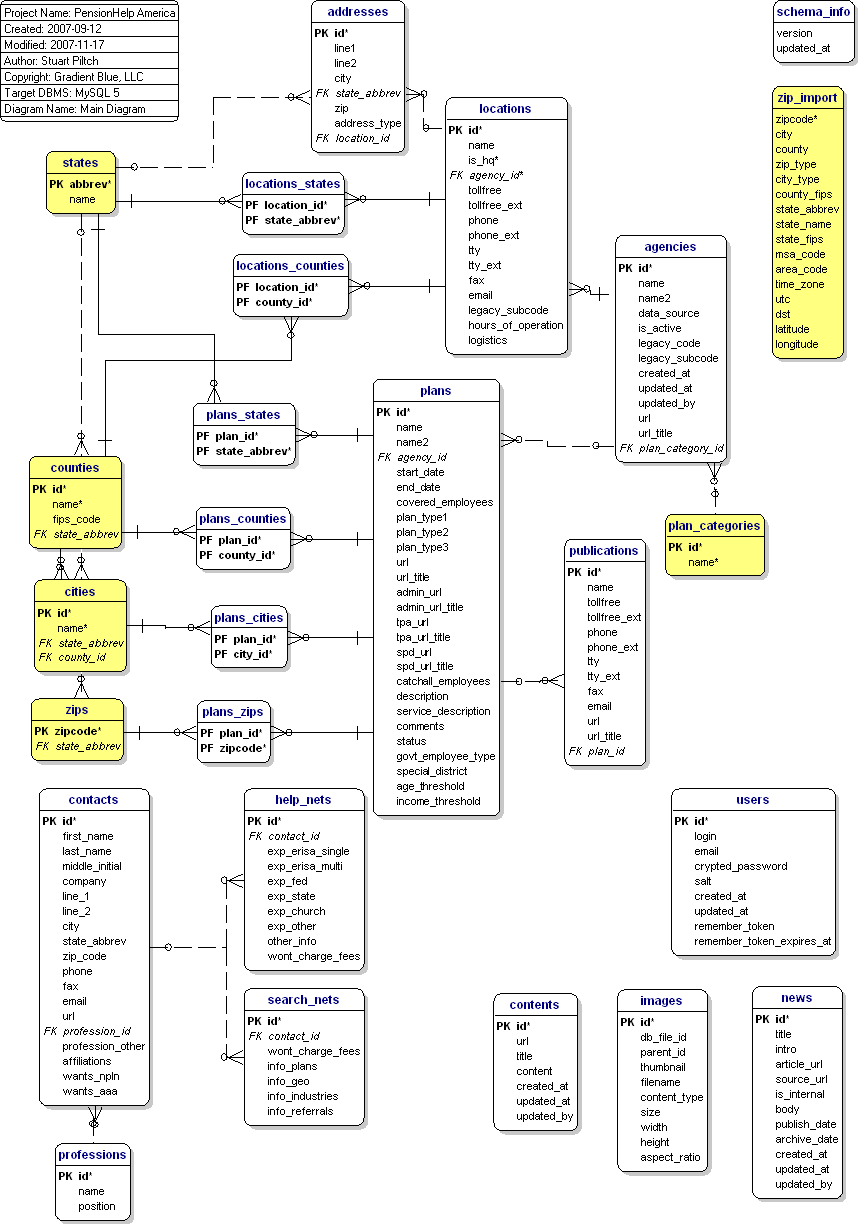
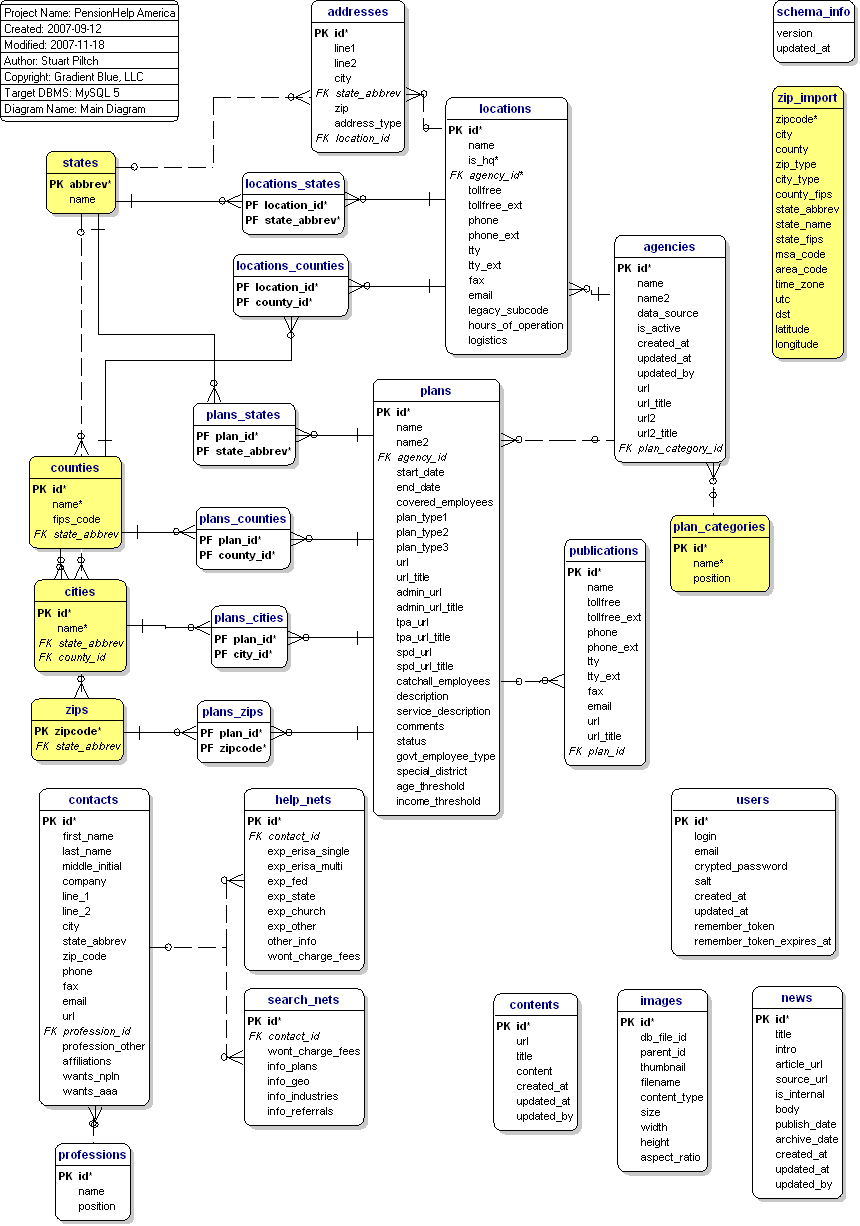
added some legacy fields to support FMPro data import

Changed region(s): [[0.6953, 0.186, 0.907, 0.4959]]

diff --git a/db/schema.rb b/db/schema.rb
@@ -2,16 +2,18 @@
 # migrations feature of ActiveRecord to incrementally modify your database, and
 # then regenerate this schema definition.
 
-ActiveRecord::Schema.define(:version => 19) do
+ActiveRecord::Schema.define(:version => 20) do
 
   create_table "addresses", :force => true do |t|
-    t.column "line1",        :string
-    t.column "line2",        :string
-    t.column "city",         :string,  :limit => 64
-    t.column "state_abbrev", :string
-    t.column "zip",          :string
-    t.column "address_type", :string
-    t.column "location_id",  :integer
+    t.column "line1",          :string
+    t.column "line2",          :string
+    t.column "city",           :string,  :limit => 64
+    t.column "state_abbrev",   :string
+    t.column "zip",            :string
+    t.column "address_type",   :string
+    t.column "location_id",    :integer
+    t.column "legacy_code",    :string
+    t.column "legacy_subcode", :string
   end
 
   add_index "addresses", ["location_id"], :name => "location_id"
@@ -32,16 +34,6 @@ ActiveRecord::Schema.define(:version => 19) do
   end
 
   add_index "agencies", ["plan_category_id"], :name => "plan_category_id"
-
-  create_table "agency_categories", :force => true do |t|
-    t.column "name",     :string
-    t.column "position", :integer
-  end
-
-  create_table "agency_types", :force => true do |t|
-    t.column "name",     :string
-    t.column "position", :integer
-  end
 
   create_table "cities", :force => true do |t|
     t.column "name",         :string
@@ -87,6 +79,66 @@ ActiveRecord::Schema.define(:version => 19) do
     t.column "state_abbrev", :string
   end
 
+  create_table "fmp2", :force => true do |t|
+    t.column "ResultType",                   :string
+    t.column "OldPHA_AgencySerialNumber",    :string
+    t.column "OldPHA_BabiesSerialNumber",    :string
+    t.column "AgencyName1",                  :string
+    t.column "AgencyName2",                  :string
+    t.column "PlanDescription",              :text
+    t.column "Comments",                     :text
+    t.column "AgencyMailStreet1",            :string
+    t.column "AgencyMailStreet2",            :string
+    t.column "AgencyMailCity",               :string
+    t.column "AgencyMailState",              :string
+    t.column "AgencyMailZip",                :string
+    t.column "AgencyDropInStreet1",          :string
+    t.column "AgencyDropInStreet2",          :string
+    t.column "AgencyDropInCity",             :string
+    t.column "AgencyDropInState",            :string
+    t.column "AgencyDropInZip",              :string
+    t.column "AgencyTollFreePhone",          :string
+    t.column "AgencyLocalPhone",             :string
+    t.column "AgencyFax",                    :string
+    t.column "AgencyTTYPhone",               :string
+    t.column "AgencyTollFreePhoneExt",       :string
+    t.column "AgencyLocalPhoneExt",          :string
+    t.column "AgencyTTYPhoneExt",            :string
+    t.column "AgencyEmail",                  :string
+    t.column "AgencyURL",                    :string
+    t.column "PlanURL",                      :string
+    t.column "AgencyURLTitle",               :string
+    t.column "PlanURLTitle",                 :string
+    t.column "AgencyPubsTollFreePhone",      :string
+    t.column "AgencyPubsLocalPhone",         :string
+    t.column "AgencyPubsTTYPhone",           :string
+    t.column "AgencyPubsTollFreePhoneExt",   :string
+    t.column "AgencyPubsLocalPhoneExt",      :string
+    t.column "AgencyPubsTTYPhoneExt",        :string
+    t.column "AgencyPubsURL",                :string
+    t.column "RecordStatus",                 :string
+    t.column "AgencyPubsURLTitle",           :string
+    t.column "SPDURL",                       :string
+    t.column "SPDURLTitle",                  :string
+    t.column "PlanStartDate",                :date
+    t.column "PlanEndDate",                  :date
+    t.column "CoveredEmployee",              :text
+    t.column "PlanType1",                    :string
+    t.column "PlanType2",                    :string
+    t.column "PlanType3",                    :string
+    t.column "PlanName1",                    :string
+    t.column "PlanName2",                    :string
+    t.column "TPAURL",                       :string
+    t.column "TPAURL_Title",                 :string
+    t.column "CatchallEmployees",            :text
+    t.column "ServiceGeographyType",         :string
+    t.column "GeographicServiceInformation", :string
+    t.column "GovtCounty",                   :string
+    t.column "GovtSpDist",                   :string
+    t.column "GovtState",                    :string
+    t.column "GovtEmployerType",             :string
+  end
+
   create_table "help_nets", :force => true do |t|
     t.column "contact_id",       :integer
     t.column "exp_erisa_single", :boolean
@@ -130,6 +182,7 @@ ActiveRecord::Schema.define(:version => 19) do
     t.column "created_at",         :datetime
     t.column "updated_at",         :datetime
     t.column "updated_by",         :string
+    t.column "legacy_code",        :string
   end
 
   add_index "locations", ["agency_id"], :name => "agency_id"
@@ -197,6 +250,12 @@ ActiveRecord::Schema.define(:version => 19) do
     t.column "updated_by",          :string
     t.column "age_threshold",       :decimal,  :precision => 5, :scale => 2
     t.column "income_threshold",    :decimal,  :precision => 9, :scale => 2
+    t.column "legacy_category",     :string
+    t.column "legacy_code",         :string
+    t.column "legacy_geo_type",     :string
+    t.column "legacy_geo_info",     :string
+    t.column "legacy_geo_states",   :string
+    t.column "legacy_geo_counties", :string
   end
 
   add_index "plans", ["agency_id"], :name => "agency_id"
@@ -249,6 +308,7 @@ ActiveRecord::Schema.define(:version => 19) do
     t.column "url_title",    :string
     t.column "created_at",   :datetime
     t.column "updated_at",   :datetime
+    t.column "legacy_code",  :string
   end
 
   add_index "publications", ["plan_id"], :name => "plan_id"
@@ -265,20 +325,6 @@ ActiveRecord::Schema.define(:version => 19) do
   create_table "states", :id => false, :force => true do |t|
     t.column "abbrev", :string, :limit => 2,  :null => false
     t.column "name",   :string, :limit => 50
-  end
-
-  create_table "taggings", :force => true do |t|
-    t.column "tag_id",        :integer
-    t.column "taggable_id",   :integer
-    t.column "taggable_type", :string
-    t.column "created_at",    :datetime
-  end
-
-  add_index "taggings", ["tag_id"], :name => "index_taggings_on_tag_id"
-  add_index "taggings", ["taggable_id", "taggable_type"], :name => "index_taggings_on_taggable_id_and_taggable_type"
-
-  create_table "tags", :force => true do |t|
-    t.column "name", :string
   end
 
   create_table "users", :force => true do |t|

diff --git a/app/models/zip.rb b/app/models/zip.rb
@@ -16,14 +16,15 @@ __END__
 These are shell/mysql commands now. They should become a class method that gets called 
 from the script/runner through cron.
 
-mysqlimport -u root --columns=zipcode,zip_type,city,city_type,county,county_fips,state_name,state_abbrev,state_fips,msa_code,area_code,time_zone,utc,dst,latitude,longitude --local pha_development zip_import.txt 
+mysqlimport5 -u root --ignore-lines=1 --columns=zipcode,zip_type,city,city_type,county,county_fips,state_name,state_abbrev,state_fips,msa_code,area_code,time_zone,utc,dst,latitude,longitude --local pha_development zip_import.txt 
 
 Also, these need to be converted to insert/update statements:
 
-mysql> insert into states select distinct state_abbrev, state_name from zip_import;
+mysql> 
+insert into states select distinct state_abbrev, state_name from zip_import;
 
-mysql> insert into counties select distinct null, county, county_fips, state_abbrev from zip_import; 
+insert into counties select distinct null, county, county_fips, state_abbrev from zip_import; 
 
-mysql> insert into zips select distinct zipcode, state_abbrev from zip_import;                      
+insert into zips select distinct zipcode, state_abbrev from zip_import;                      
 
-mysql> insert into cities select distinct null, z.city, c.id, z.state_abbrev from zip_import z join counties c on z.county = c.name and z.state_abbrev=c.state_abbrev;
+insert into cities select distinct null, z.city, c.id, z.state_abbrev from zip_import z join counties c on z.county = c.name and z.state_abbrev=c.state_abbrev;

diff --git a/db/migrate/020_add_legacy_fields.rb b/db/migrate/020_add_legacy_fields.rb
@@ -1,0 +1,27 @@
+class AddLegacyFields < ActiveRecord::Migration
+  def self.up
+    add_column :plans, :legacy_category, :string
+    add_column :locations, :legacy_code, :string
+    add_column :addresses, :legacy_code, :string
+    add_column :addresses, :legacy_subcode, :string
+    add_column :publications, :legacy_code, :string
+    add_column :plans, :legacy_code, :string
+    add_column :plans, :legacy_geo_type, :string
+    add_column :plans, :legacy_geo_info, :string
+    add_column :plans, :legacy_geo_states, :string
+    add_column :plans, :legacy_geo_counties, :string
+  end
+
+  def self.down
+    remove_column :plans, :legacy_category
+    remove_column :locations, :legacy_code
+    remove_column :addresses, :legacy_code
+    remove_column :addresses, :legacy_subcode
+    remove_column :publications, :legacy_code
+    remove_column :plans, :legacy_code
+    remove_column :plans, :legacy_geo_type
+    remove_column :plans, :legacy_geo_info
+    remove_column :plans, :legacy_geo_states
+    remove_column :plans, :legacy_geo_counties
+  end
+end

diff --git a/db/migrate/009_create_agencies.rb b/db/migrate/009_create_agencies.rb
@@ -19,15 +19,3 @@ class CreateAgencies < ActiveRecord::Migration
     drop_table :agencies
   end
 end
-
-__END__
-
---> old, do not use
-
-load data infile 'agencies.csv' into table agencies fields terminated by ',' enclosed by '"' (name,name2,description,service_description,tollfree,phone,fax,tty,url,url2,email,hours_of_operation,logistics,comments,data_source,is_active,legacy_code,created_at,updated_at,updated_by);
-
-load data infile 'subagencies.csv' into table agencies fields terminated by ',' enclosed by '"' (name,name2,description,service_description,tollfree,phone,fax,tty,url,url2,email,hours_of_operation,logistics,comments,data_source,is_active,legacy_subcode,created_at,updated_at,updated_by,legacy_code);
-
-update agencies a, agencies b set a.parent_id = b.id where a.legacy_code = b.legacy_code;
-
-update agencies set parent_id = null where parent_id = id;

diff --git a/app/models/address.rb b/app/models/address.rb
@@ -1,16 +1,18 @@
 # == Schema Information
-# Schema version: 16
+# Schema version: 20
 #
 # Table name: addresses
 #
-#  id           :integer(11)   not null, primary key
-#  line1        :string(255)   
-#  line2        :string(255)   
-#  city         :string(64)    
-#  state_abbrev :string(255)   
-#  zip          :string(255)   
-#  address_type :string(255)   
-#  location_id  :integer(11)   
+#  id             :integer(11)   not null, primary key
+#  line1          :string(255)   
+#  line2          :string(255)   
+#  city           :string(64)    
+#  state_abbrev   :string(255)   
+#  zip            :string(255)   
+#  address_type   :string(255)   
+#  location_id    :integer(11)   
+#  legacy_code    :string(255)   
+#  legacy_subcode :string(255)   
 #
 
 class Address < ActiveRecord::Base

diff --git a/app/models/location.rb b/app/models/location.rb
@@ -1,12 +1,12 @@
 # == Schema Information
-# Schema version: 17
+# Schema version: 20
 #
 # Table name: locations
 #
 #  id                 :integer(11)   not null, primary key
 #  name               :string(255)   
 #  is_hq              :boolean(1)    
-#  agency             :integer(11)   
+#  agency_id          :integer(11)   
 #  phone              :string(20)    
 #  phone_ext          :string(10)    
 #  tollfree           :string(20)    
@@ -21,6 +21,7 @@
 #  created_at         :datetime      
 #  updated_at         :datetime      
 #  updated_by         :string(255)   
+#  legacy_code        :string(255)   
 #
 
 class Location < ActiveRecord::Base  

diff --git a/app/models/agency.rb b/app/models/agency.rb
@@ -1,5 +1,5 @@
 # == Schema Information
-# Schema version: 19
+# Schema version: 20
 #
 # Table name: agencies
 #
@@ -8,13 +8,13 @@
 #  name2            :string(255)   
 #  data_source      :string(255)   
 #  is_active        :boolean(1)    
-#  url              :string(255)   
 #  url_title        :string(255)   
 #  legacy_code      :string(255)   
 #  legacy_subcode   :string(255)   
 #  created_at       :datetime      
 #  updated_at       :datetime      
 #  updated_by       :string(255)   
+#  url              :string(255)   
 #  plan_category_id :integer(11)   
 #
 

diff --git a/app/models/plan.rb b/app/models/plan.rb
@@ -1,5 +1,5 @@
 # == Schema Information
-# Schema version: 19
+# Schema version: 20
 #
 # Table name: plans
 #
@@ -33,6 +33,12 @@
 #  updated_by          :string(255)   
 #  age_threshold       :decimal(5, 2) 
 #  income_threshold    :decimal(9, 2) 
+#  legacy_category     :string(255)   
+#  legacy_code         :string(255)   
+#  legacy_geo_type     :string(255)   
+#  legacy_geo_info     :string(255)   
+#  legacy_geo_states   :string(255)   
+#  legacy_geo_counties :string(255)   
 #
 
 class Plan < ActiveRecord::Base

diff --git a/app/models/publication.rb b/app/models/publication.rb
@@ -1,5 +1,5 @@
 # == Schema Information
-# Schema version: 17
+# Schema version: 20
 #
 # Table name: publications
 #
@@ -13,10 +13,12 @@
 #  fax          :string(20)    
 #  tty          :string(20)    
 #  tty_ext      :string(10)    
+#  email        :string(255)   
 #  url          :string(255)   
 #  url_title    :string(255)   
 #  created_at   :datetime      
 #  updated_at   :datetime      
+#  legacy_code  :string(255)   
 #
 
 class Publication < ActiveRecord::Base
